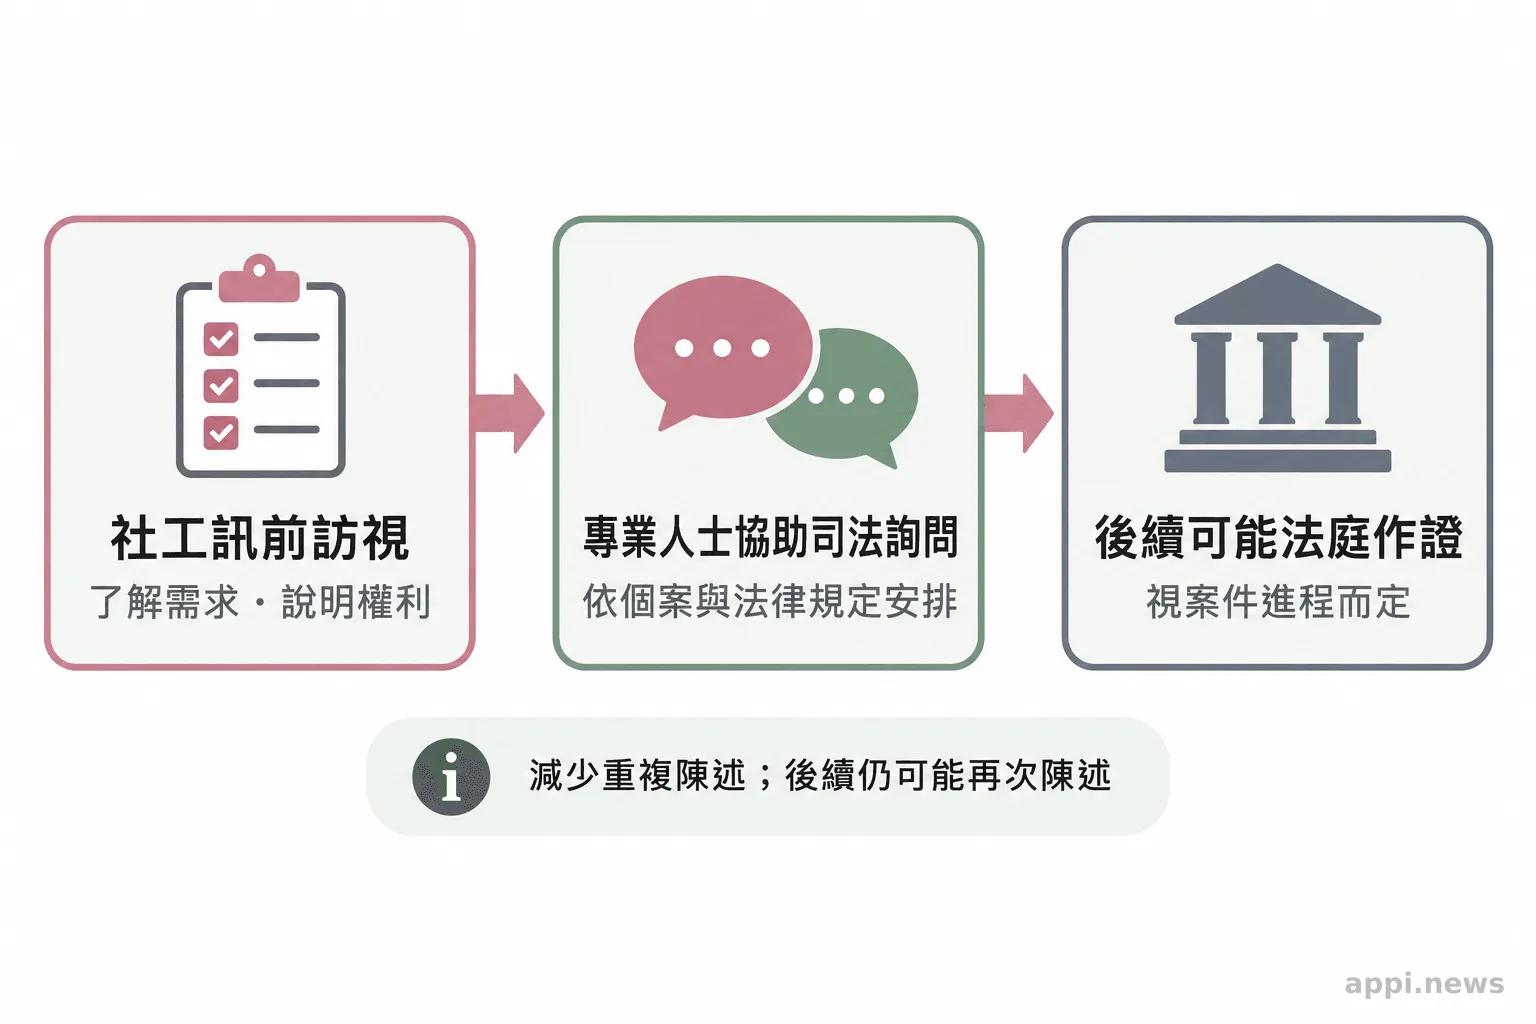
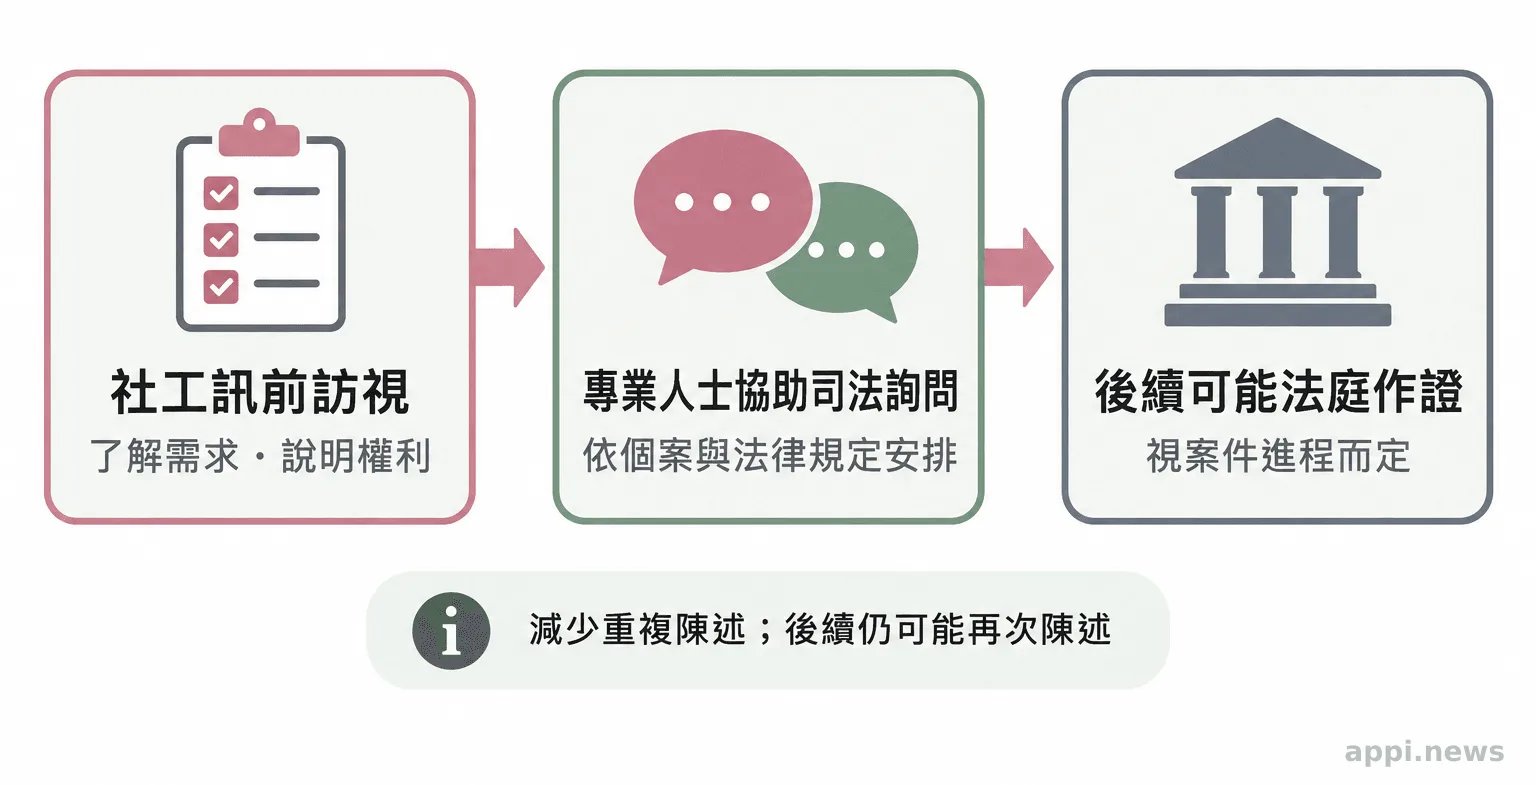
更新微光專欄：如何陪孩子面對減述作業與司法出庭

diff --git a/news.html b/news.html
@@ -62,6 +62,14 @@
     <div class="wrap">
       <div class="news-cards">
         <article class="news-card reveal">
+          <div class="thumb" style="background-image:url('assets/news/news-2026-10-child-justice-interview-support-1.webp')" role="presentation"></div>
+          <div class="body">
+            <div class="meta"><span class="cat">微光專欄</span><time datetime="2026-10-06">2026.10.06</time></div>
+            <h3><a href="news-2026-10-child-justice-interview-support.html">如何陪孩子面對減述作業與司法出庭</a></h3>
+            <p class="excerpt">孩子進入司法程序後，減述作業、專業人士協助詢問與陪同出庭各有什麼作用？整理性侵害案件的適用範圍、可詢問的保護安排，以及家長與陪伴者能先準備的事。</p>
+          </div>
+        </article>
+        <article class="news-card reveal">
           <div class="thumb" style="background-image:url('assets/news/news-2026-10-child-art-support-safety-1.webp')" role="presentation"></div>
           <div class="body">
             <div class="meta"><span class="cat">微光專欄</span><time datetime="2026-10-06">2026.10.06</time></div>
@@ -115,14 +123,6 @@
             <div class="meta"><span class="cat">微光專欄</span><time datetime="2026-10-06">2026.10.06</time></div>
             <h3><a href="news-2026-10-child-safety-observation-support.html">孩子的改變，值得大人多看一眼：兒少保護與通報指南</a></h3>
             <p class="excerpt">孩子的傷勢、情緒或學習變化都有不同成因。認識兒少保護的觀察原則、客觀記錄方式，以及113諮詢通報與110緊急求助的分工。</p>
-          </div>
-        </article>
-        <article class="news-card reveal">
-          <div class="thumb" style="background-image:url('assets/news/news-2026-10-child-justice-interview-support-1.webp')" role="presentation"></div>
-          <div class="body">
-            <div class="meta"><span class="cat">微光專欄</span><time datetime="2026-10-06">2026.10.06</time></div>
-            <h3><a href="news-2026-10-child-justice-interview-support.html">如何陪孩子面對減述作業與司法出庭</a></h3>
-            <p class="excerpt">孩子進入司法程序後，減述作業、專業人士協助詢問與陪同出庭各有什麼作用？整理性侵害案件的適用範圍、可詢問的保護安排，以及家長與陪伴者能先準備的事。</p>
           </div>
         </article>
         <article class="news-card reveal">

diff --git a/index.html b/index.html
@@ -253,6 +253,14 @@
       </div>
       <div class="news-cards">
         <article class="news-card reveal">
+          <div class="thumb" style="background-image:url('assets/news/news-2026-10-child-justice-interview-support-1.webp')" role="presentation"></div>
+          <div class="body">
+            <div class="meta"><span class="cat">微光專欄</span><time datetime="2026-10-06">2026.10.06</time></div>
+            <h3><a href="news-2026-10-child-justice-interview-support.html">如何陪孩子面對減述作業與司法出庭</a></h3>
+            <p class="excerpt">孩子進入司法程序後，減述作業、專業人士協助詢問與陪同出庭各有什麼作用？整理性侵害案件的適用範圍、可詢問的保護安排，以及家長與陪伴者能先準備的事。</p>
+          </div>
+        </article>
+        <article class="news-card reveal">
           <div class="thumb" style="background-image:url('assets/news/news-2026-10-child-art-support-safety-1.webp')" role="presentation"></div>
           <div class="body">
             <div class="meta"><span class="cat">微光專欄</span><time datetime="2026-10-06">2026.10.06</time></div>
@@ -266,14 +274,6 @@
             <div class="meta"><span class="cat">微光專欄</span><time datetime="2026-10-06">2026.10.06</time></div>
             <h3><a href="news-2026-10-child-disclosure-support-steps.html">孩子說出受傷經驗時，大人如何陪伴與求助？</a></h3>
             <p class="excerpt">孩子說出疑似受虐或不當對待時，先聽、確認安全、避免追問；家長、老師與志工可記錄原話，依情況聯繫113，立即危險時撥110。</p>
-          </div>
-        </article>
-        <article class="news-card reveal">
-          <div class="thumb" style="background-image:url('assets/news/news-2026-10-support-children-after-adversity-1.webp')" role="presentation"></div>
-          <div class="body">
-            <div class="meta"><span class="cat">微光專欄</span><time datetime="2026-10-06">2026.10.06</time></div>
-            <h3><a href="news-2026-10-support-children-after-adversity.html">孩子受過傷，身邊的大人能做什麼？認識ACEs與安全支持</a></h3>
-            <p class="excerpt">童年逆境與成年健康風險有群體關聯，卻不能預言單一孩子的未來。家長、教師與社區成人可以從安全、穩定的關係開始，並在有疑慮時使用正式求助管道。</p>
           </div>
         </article>
       </div>
